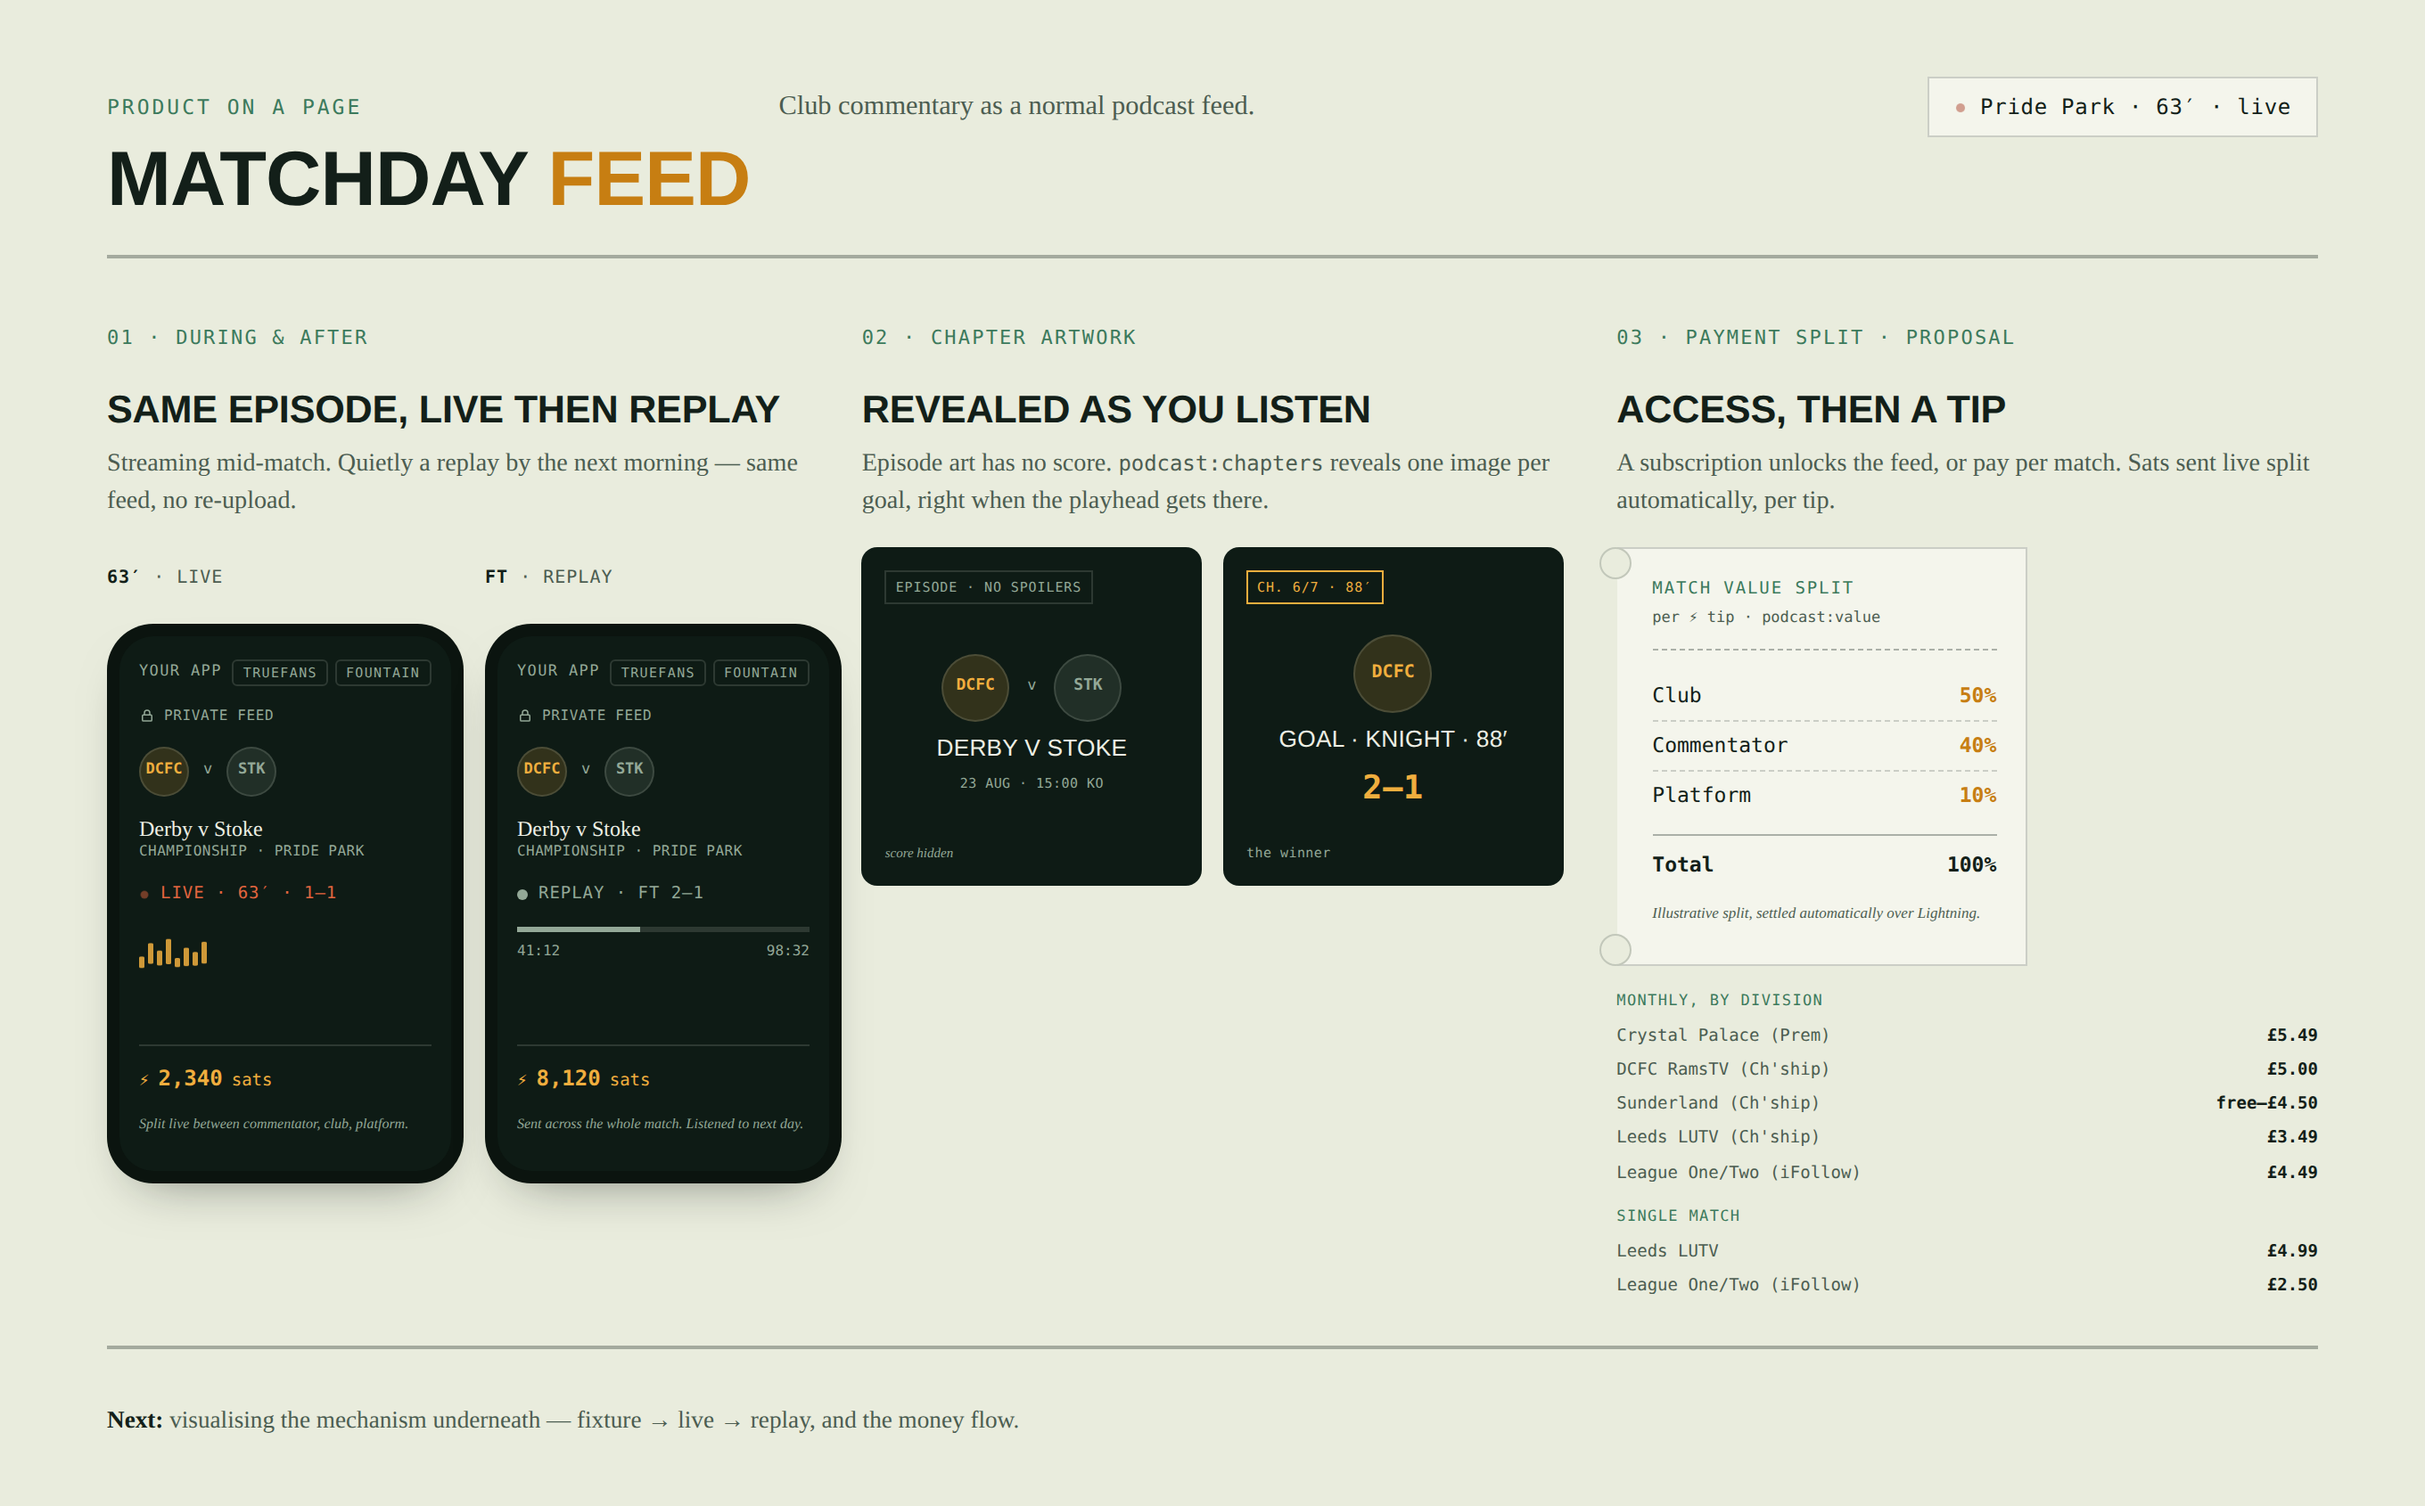
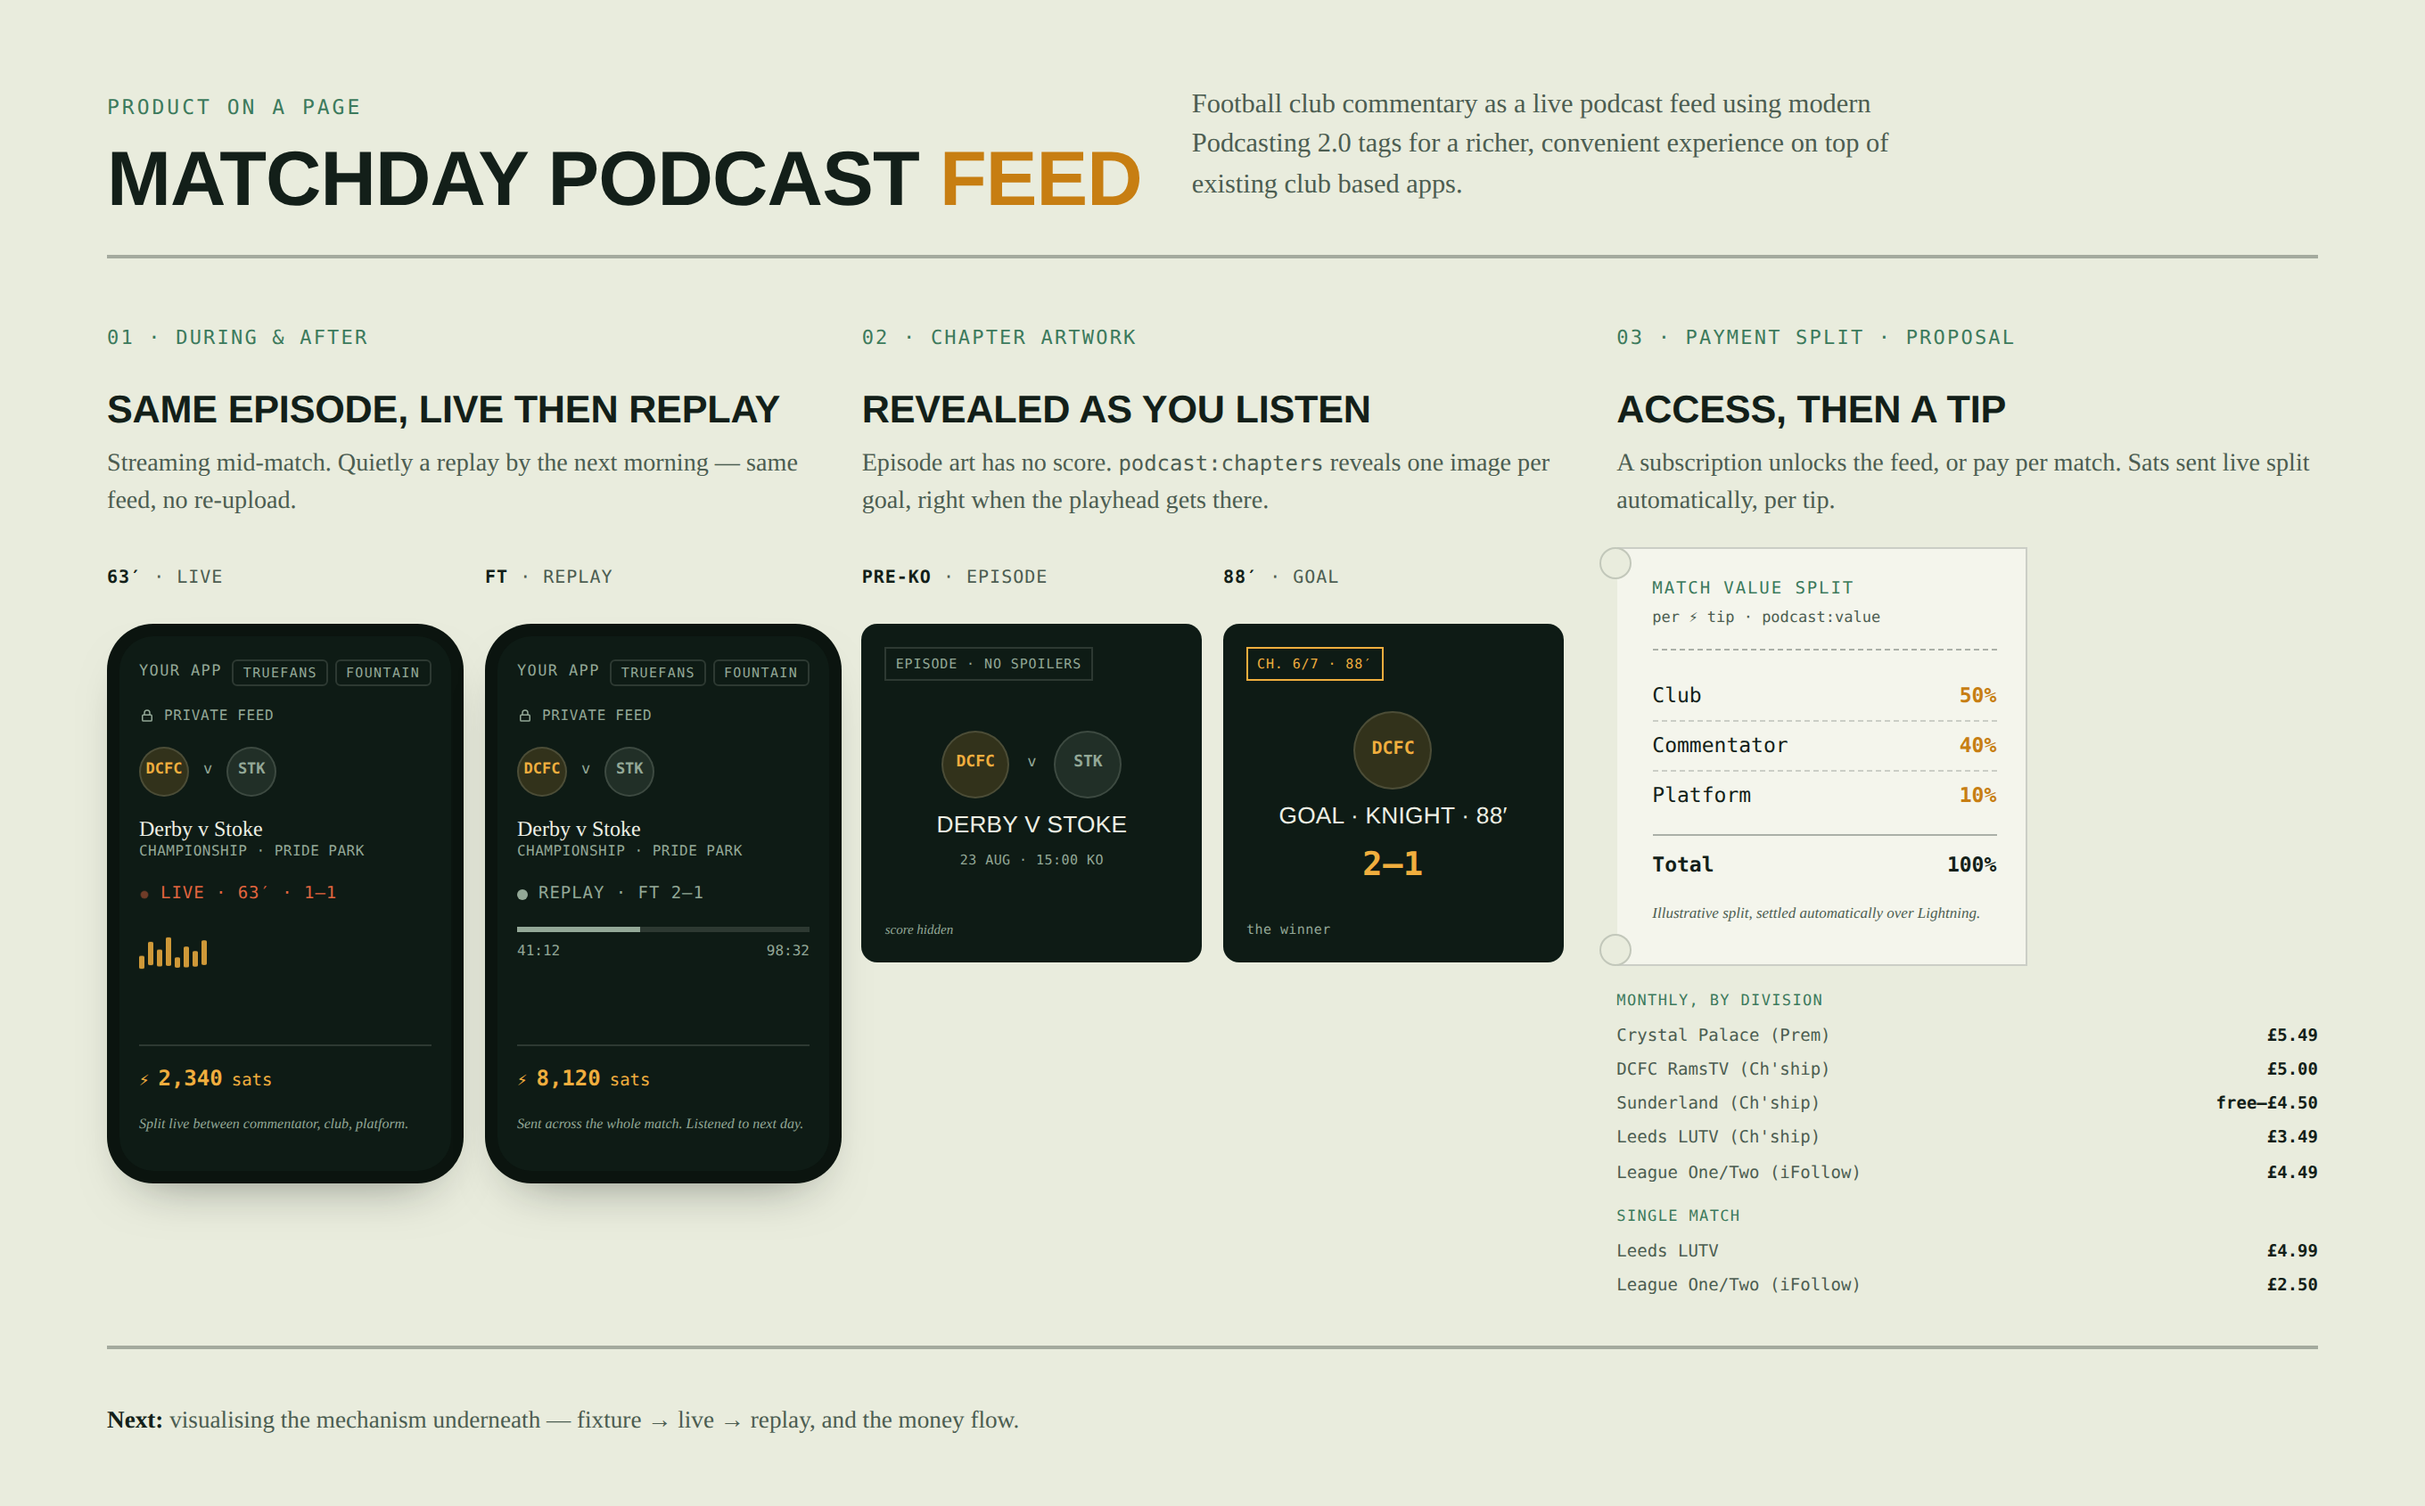
Rename to Matchday Podcast Feed and refine artifact layout
- Renamed the product from "Matchday Feed" to "Matchday Podcast Feed"
  in the post title, cover image, and figure caption.
- Artifact: added phone-tag-style captions above the chapter artwork
  examples so column two aligns with column one's during/after
  captions.
- Artifact: replaced the subtitle with a fuller description of what
  the product is, vertically centred beside the title.
- Artifact: removed the Pride Park live badge from the masthead.

Changed region(s): [[0.3438, 0.3385, 0.6562, 0.6462], [0.2188, 0.0615, 0.7812, 0.1538], [0.8125, 0.0615, 0.9062, 0.0923]]

diff --git a/posts/blog/2026/pop-matchday-feed.md b/posts/blog/2026/pop-matchday-feed.md
@@ -1,5 +1,5 @@
 ---
-title: "POP: Matchday Feed"
+title: "POP: Matchday Podcast Feed"
 date: 2026-08-22
 categories:
   - "blog"
@@ -23,7 +23,7 @@ I mocked this one up properly rather than scribbling it on paper, a screenshot f
 
 <figcaption>
 
-Matchday Feed Product On a Page: listener experience, chapter artwork, and the subscription/value-for-value proposal
+Matchday Podcast Feed Product On a Page: listener experience, chapter artwork, and the subscription/value-for-value proposal
 
 </figcaption>
 
